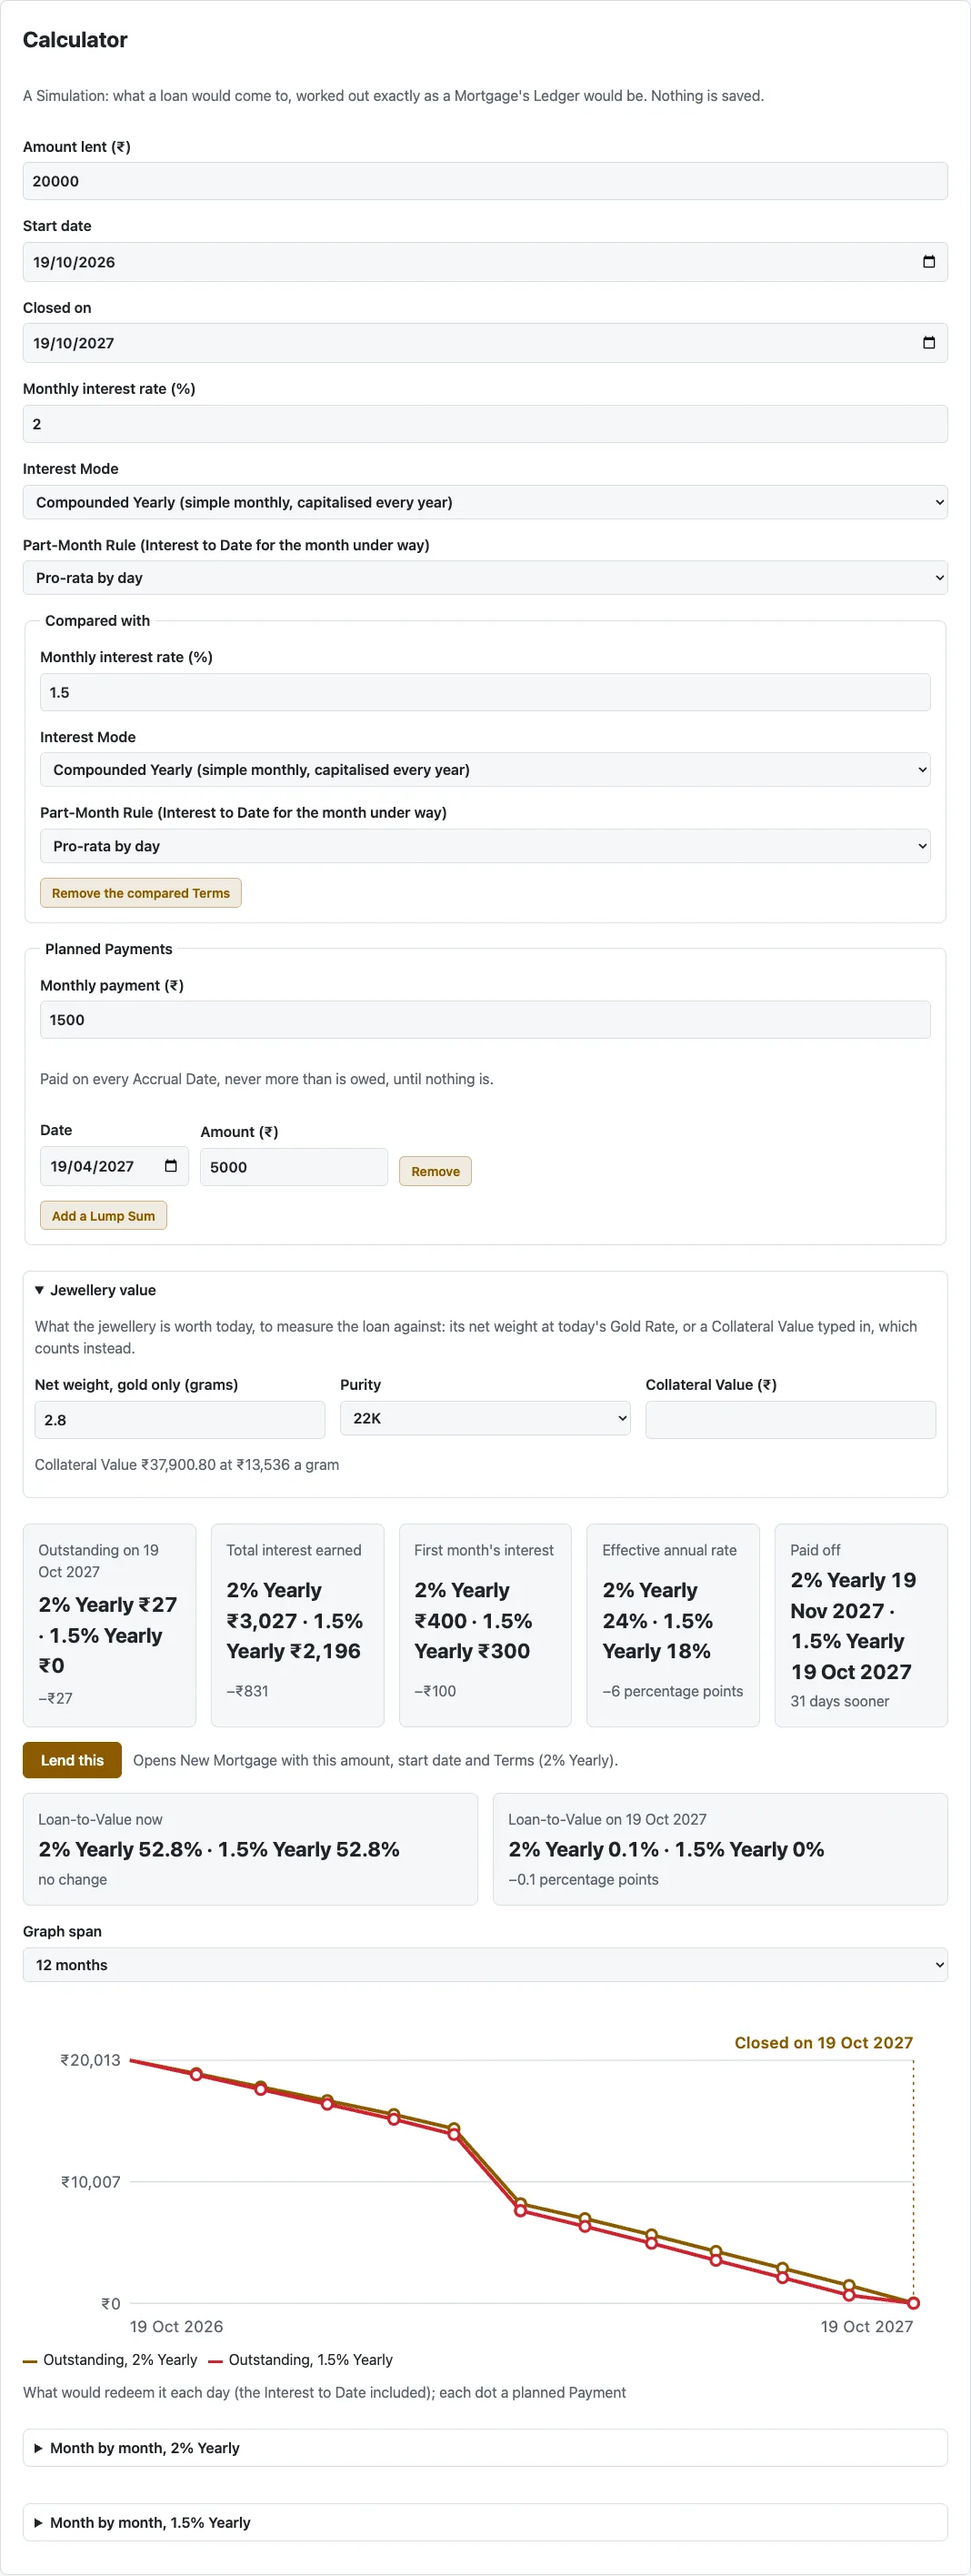
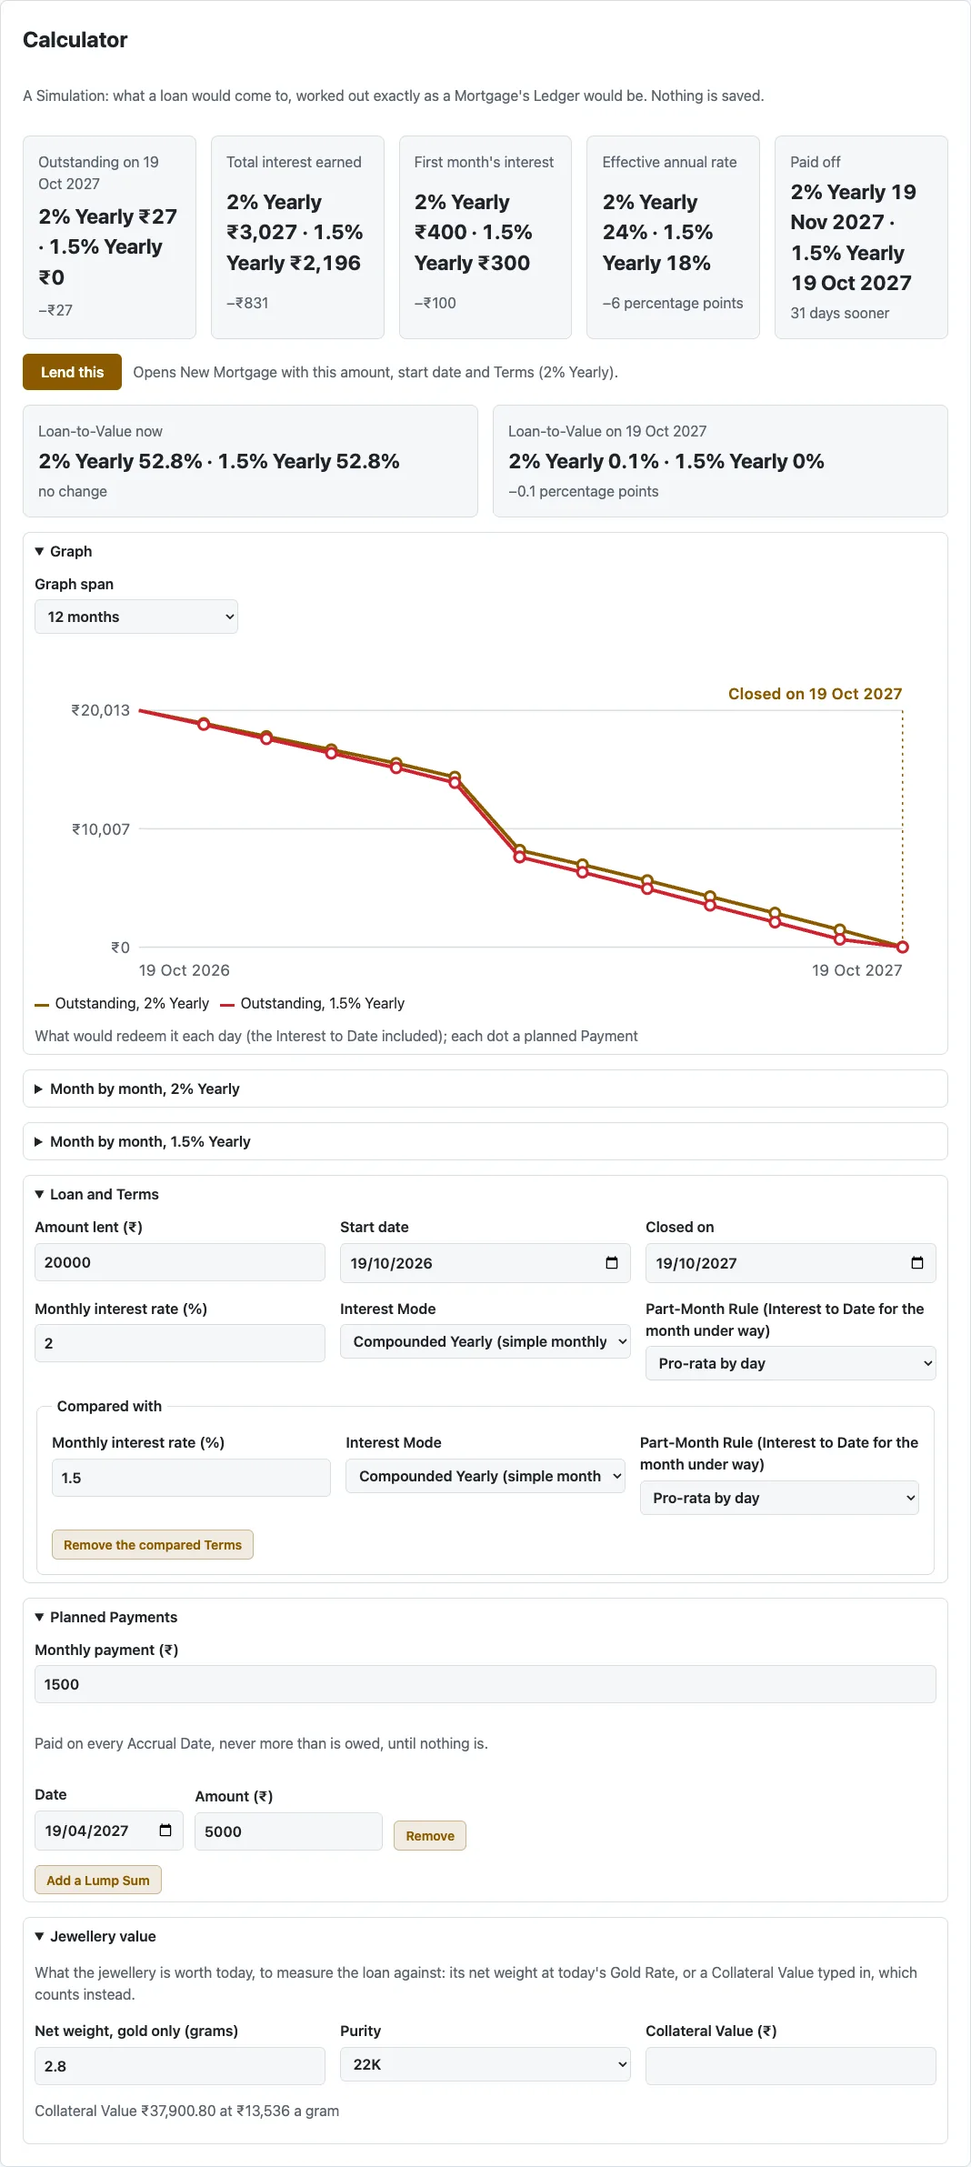
3.4.1: the Calculator's new layout, in the docs and the release
Changelog entry for 3.4.1, versions bumped. Every screenshot retaken: the
Calculator now shows what it comes to above its inputs, so its story markers
moved, and the top bar reads v3.4.1. shots.mjs finds Planned Payments as a
folding section, not a fieldset; the update banner invents 3.4.2 over 3.4.1.
The Calculator's alt texts describe the new order. No database changes.

diff --git a/docs/story.html b/docs/story.html
@@ -329,7 +329,7 @@ footer { margin-top: 3rem; font-size: 0.82rem; color: var(--muted); display: gri
     <p>In November 2025 Meera pledged a gold chain with a pendant: 21.5 grams gross, 20 grams of 22K gold, against ₹80,000. One packet of jewellery is one Mortgage. Today she asks for <span data-fig="calculator.ask">₹20,000 for a year, from 19 Oct 2026 to 19 Oct 2027</span>, against a gold nose pin. Before lending, the Lender sizes it up on the <b>Calculator</b>: a Simulation, worked out exactly as a Mortgage's Ledger would be, with no Customer and nothing saved.</p>
   </div>
   <figure class="scene" data-shot="calculator">
-    <div class="frame"><div class="canvas"><img src="shots/calculator.webp" width="1068" height="2832" alt="The Calculator: ₹20,000 for a year at 2% a month compared with 1.5%, planned Payments, the nose pin's value, what each comes to, Lend this, and a chart of the Outstanding." loading="lazy"></div></div>
+    <div class="frame"><div class="canvas"><img src="shots/calculator.webp" width="1068" height="2383" alt="The Calculator: what ₹20,000 for a year comes to at 2% a month and at 1.5%, Lend this, and a graph of the Outstanding, above the inputs: the loan and its Terms, planned Payments and the nose pin's value." loading="lazy"></div></div>
     <div class="beats-wrap">
       <ol class="beats">
         <li data-spot="amount"><button class="beat"><span><b>The loan asked for:</b> an amount, a start date, and the day to close it on. Every figure is as of that day, as if it were Redeemed then.</span></button></li>
@@ -634,7 +634,7 @@ footer { margin-top: 3rem; font-size: 0.82rem; color: var(--muted); display: gri
   </div>
   <div class="duo">
     <figure class="still"><img src="shots/start-screen.webp" width="860" height="226" alt="The installed app with nothing running: The app isn't running on this laptop, and a Start Mortgage Management button." loading="lazy"><figcaption>Opened from its icon with nothing running, the installed app offers <b>Start Mortgage Management</b>. Windows asks once whether to open it; the app loads as soon as it answers.</figcaption></figure>
-    <figure class="still"><img src="shots/update-banner.webp" width="1068" height="204" alt="Version 3.4.0 is available, with what's new, Install now and Later." loading="lazy"><figcaption>A newer release, with what's new from its changelog (an invented one here). <b>Install now</b> updates the app and reloads it on the new version; <b>Later</b> hides it until the next release.</figcaption></figure>
+    <figure class="still"><img src="shots/update-banner.webp" width="1068" height="204" alt="Version 3.4.2 is available, with what's new, Install now and Later." loading="lazy"><figcaption>A newer release, with what's new from its changelog (an invented one here). <b>Install now</b> updates the app and reloads it on the new version; <b>Later</b> hides it until the next release.</figcaption></figure>
   </div>
   <div class="duo">
     <figure class="still"><img src="shots/mortgage-history.webp" width="1020" height="241" alt="History of Meera's chain: the description edited, and each Payment recorded." loading="lazy"><figcaption>The chain's History: its description corrected ("Gold chain with pendant" → "…with Lakshmi pendant") and each Payment recorded.</figcaption></figure>
@@ -665,7 +665,7 @@ footer { margin-top: 3rem; font-size: 0.82rem; color: var(--muted); display: gri
 </main>
 
 <script>
-const SPOTS = {"dashboard":{"w":1280,"h":860,"b":{"owed":[0.1023,0.2274,0.7953,0.0883],"ltv":[0.5063,0.7082,0.3914,0.1437],"follow":[0.1023,0.9176,0.3914,0.1437],"theme":[0.955,0.014,0.0262,0.0391],"dot":[0.7776,0.0172,0.0063,0.0093]}},"dashboard-chart":{"w":1020,"h":445,"b":{}},"dashboard-ahead":{"w":1020,"h":335,"b":{}},"dashboard-closed":{"w":1020,"h":168,"b":{}},"settings-terms":{"w":1068,"h":461,"b":{"rate":[0.0234,0.37,0.9532,0.0912]}},"settings-gold":{"w":1068,"h":554,"b":{"g22":[0.1864,0.4424,0.1837,0.0758],"updated":[0.7032,0.4271,0.2734,0.1065]}},"settings-calls":{"w":1068,"h":293,"b":{}},"settings-cash":{"w":1068,"h":317,"b":{"limit":[0.0234,0.6125,0.9532,0.1323]}},"settings-messages":{"w":1068,"h":1116,"b":{"template":[0.0234,0.16,0.4691,0.2312],"preview":[0.5075,0.1335,0.4691,0.1998],"approve":[0.5075,0.8633,0.4691,0.0215]}},"settings-backups":{"w":1068,"h":461,"b":{"last":[0.0234,0.3399,0.9532,0.052]}},"customers":{"w":1068,"h":757,"b":{"filter":[0.0234,0.107,0.9532,0.0555],"active":[0.0234,0.1836,0.9532,0.0317],"sort":[0.1087,0.247,0.0455,0.0269],"new":[0.8341,0.033,0.1425,0.0528]}},"customer-new":{"w":828,"h":1176,"b":{"phone":[0.3249,0.2802,0.6449,0.0357],"warning":[0.3249,0.3206,0.6449,0.0204],"referrer":[0.0326,0.8606,0.9348,0.0689]}},"customer":{"w":828,"h":1103,"b":{"photo":[0.0302,0.1422,0.2657,0.1995],"shared":[0.0302,0.1059,0.9396,0.0218],"referrer":[0.3249,0.2002,0.1516,0.0218],"ids":[0.0302,0.3489,0.9396,0.0255],"mortgages":[0.0302,0.5118,0.1171,0.0255],"history":[0.0302,0.7598,0.9396,0.0255]}},"referrer":{"w":828,"h":242,"b":{}},"calculator":{"w":1068,"h":2832,"b":{"amount":[0.0234,0.0631,0.9532,0.0148],"compared":[0.0253,0.2368,0.9494,0.1216],"plan":[0.0253,0.3641,0.9494,0.1196],"value":[0.0234,0.4936,0.9532,0.0881],"tiles":[0.0234,0.5916,0.9532,0.0793],"lend":[0.0234,0.6765,0.1024,0.0141],"chart":[0.0234,0.7751,0.9532,0.1581]}},"calculator-months":{"w":1018,"h":1157,"b":{}},"mortgage-new":{"w":1068,"h":1362,"b":{"active":[0.0234,0.1094,0.9532,0.0206],"lent":[0.0234,0.3669,0.4691,0.0279],"name":[0.0234,0.5746,0.9532,0.0308],"terms":[0.0253,0.6389,0.9494,0.2172],"photos":[0.0253,0.8678,0.9494,0.0727]}},"mortgage-new-confirm":{"w":520,"h":801,"b":{}},"cash-warning":{"w":520,"h":205,"b":{"anyway":[0.5431,0.6777,0.4088,0.1953]}},"mortgage":{"w":1280,"h":860,"b":{"tiles":[0.1023,0.1949,0.7953,0.1112],"pay":[0.7836,0.1376,0.1141,0.0356],"edit":[0.7333,0.1364,0.0409,0.0379]}},"mortgage-collateral":{"w":1020,"h":161,"b":{}},"mortgage-ledger":{"w":1020,"h":734,"b":{}},"mortgage-history":{"w":1020,"h":241,"b":{}},"mortgage-projection":{"w":1020,"h":837,"b":{"whatif":[0.001,0.088,0.2196,0.0502]}},"mortgage-terms":{"w":1020,"h":233,"b":{"coming":[0.0888,0.6005,0.0781,0.1397]}},"mortgage-photos":{"w":1020,"h":319,"b":{}},"edit-preview":{"w":1068,"h":2426,"b":{"principal":[0.5075,0.1097,0.4691,0.0173],"owed":[0.0234,0.2725,0.471,0.0503],"ledger":[0.0234,0.5785,0.3106,0.0152]}},"terms-preview":{"w":1068,"h":1493,"b":{"from":[0.0234,0.1197,0.9532,0.0255],"owed":[0.0234,0.4097,0.471,0.0817]}},"payment-new":{"w":1068,"h":832,"b":{"amount":[0.3461,0.1866,0.3077,0.0505],"modes":[0.0412,0.3496,0.1608,0.0289],"split":[0.0412,0.3976,0.9176,0.1435],"owed":[0.4995,0.3976,0.3226,0.0443],"full":[0.3461,0.2438,0.2473,0.0385],"preview":[0.0234,0.7823,0.9532,0.0338]}},"payment-refused":{"w":1018,"h":572,"b":{"refusal":[0,0.8182,1,0.042],"save":[0,0.9161,0.2623,0.0699]}},"payment":{"w":1068,"h":940,"b":{"alloc":[0.0225,0.2351,0.9551,0.1867],"receipt":[0.0225,0.4345,0.9551,0.5485],"void":[0.9126,0.0284,0.064,0.0347]}},"receipt":{"w":1068,"h":545,"b":{}},"payment-void":{"w":900,"h":774,"b":{}},"payments":{"w":1068,"h":1389,"b":{"voided":[0.85,0.3063,0.0524,0.0155]}},"call-list":{"w":1068,"h":627,"b":{"customer":[0.0234,0.6452,0.2397,0.2366],"count":[0.0346,0.7129,0.0861,0.0287],"reach":[0.0346,0.7566,0.2168,0.052],"why":[0.5127,0.7841,0.1446,0.0356],"legend":[0.6176,0.4927,0.359,0.0407],"called":[0.8065,0.7355,0.1588,0.1327],"mark":[0.8065,0.6596,0.1072,0.0488],"sheet":[0.0234,0.2377,0.1189,0.052],"chat":[0.1659,0.7566,0.0309,0.052]}},"mortgages-customer":{"w":1068,"h":454,"b":{"note":[0.0234,0.3017,0.9532,0.0718]}},"call-sheet-import":{"w":960,"h":466,"b":{}},"closures":{"w":1068,"h":840,"b":{"dormant":[0.7522,0.3219,0.0856,0.0364],"choose":[0.0384,0.6839,0.0122,0.0155]}},"redeem":{"w":1018,"h":1233,"b":{"date":[0.0167,0.0772,0.9666,0.0357],"amount":[0.0167,0.2139,0.1729,0.0389]}},"waive":{"w":1018,"h":1479,"b":{}},"closures-waive":{"w":1068,"h":1122,"b":{}},"redeemed":{"w":1018,"h":123,"b":{}},"forfeited":{"w":1018,"h":285,"b":{}},"waived":{"w":1018,"h":285,"b":{}},"start-screen":{"w":860,"h":226,"b":{"start":[0.0291,0.7124,0.3007,0.177]}},"update-banner":{"w":1068,"h":204,"b":{}},"notices":{"w":1068,"h":374,"b":{"tabs":[0.0234,0.4631,0.9532,0.0642],"row":[0.0234,0.6689,0.9532,0.1328]}},"notice":{"w":640,"h":432,"b":{"approve":[0.799,0.8473,0.1619,0.0926]}},"notices-send":{"w":1068,"h":374,"b":{"send":[0.8281,0.6943,0.074,0.0819]}},"payment-redeem":{"w":520,"h":359,"b":{}},"receipt-redeemed":{"w":1068,"h":463,"b":{}}}
+const SPOTS = {"dashboard":{"w":1280,"h":860,"b":{"owed":[0.1023,0.2274,0.7953,0.0883],"ltv":[0.5063,0.7082,0.3914,0.1437],"follow":[0.1023,0.9176,0.3914,0.1437],"theme":[0.955,0.014,0.0262,0.0391],"dot":[0.7766,0.0172,0.0063,0.0093]}},"dashboard-chart":{"w":1020,"h":445,"b":{}},"dashboard-ahead":{"w":1020,"h":335,"b":{}},"dashboard-closed":{"w":1020,"h":168,"b":{}},"settings-terms":{"w":1068,"h":461,"b":{"rate":[0.0234,0.37,0.9532,0.0912]}},"settings-gold":{"w":1068,"h":554,"b":{"g22":[0.1864,0.4424,0.1837,0.0758],"updated":[0.7032,0.4271,0.2734,0.1065]}},"settings-calls":{"w":1068,"h":293,"b":{}},"settings-cash":{"w":1068,"h":317,"b":{"limit":[0.0234,0.6125,0.9532,0.1323]}},"settings-messages":{"w":1068,"h":1116,"b":{"template":[0.0234,0.16,0.4691,0.2312],"preview":[0.5075,0.1335,0.4691,0.1998],"approve":[0.5075,0.8633,0.4691,0.0215]}},"settings-backups":{"w":1068,"h":461,"b":{"last":[0.0234,0.3399,0.9532,0.052]}},"customers":{"w":1068,"h":757,"b":{"filter":[0.0234,0.107,0.9532,0.0555],"active":[0.0234,0.1836,0.9532,0.0317],"sort":[0.1087,0.247,0.0455,0.0269],"new":[0.8341,0.033,0.1425,0.0528]}},"customer-new":{"w":828,"h":1176,"b":{"phone":[0.3249,0.2802,0.6449,0.0357],"warning":[0.3249,0.3206,0.6449,0.0204],"referrer":[0.0326,0.8606,0.9348,0.0689]}},"customer":{"w":828,"h":1103,"b":{"photo":[0.0302,0.1422,0.2657,0.1995],"shared":[0.0302,0.1059,0.9396,0.0218],"referrer":[0.3249,0.2002,0.1516,0.0218],"ids":[0.0302,0.3489,0.9396,0.0255],"mortgages":[0.0302,0.5118,0.1171,0.0255],"history":[0.0302,0.7598,0.9396,0.0255]}},"referrer":{"w":828,"h":242,"b":{}},"calculator":{"w":1068,"h":2383,"b":{"amount":[0.0356,0.5737,0.2996,0.0176],"compared":[0.0375,0.644,0.9251,0.0827],"plan":[0.0234,0.7372,0.9532,0.1409],"value":[0.0234,0.8848,0.9532,0.1047],"tiles":[0.0234,0.0625,0.9532,0.0942],"lend":[0.0234,0.1634,0.1024,0.0168],"chart":[0.0356,0.2994,0.9288,0.1838]}},"calculator-months":{"w":1018,"h":1157,"b":{}},"mortgage-new":{"w":1068,"h":1362,"b":{"active":[0.0234,0.1094,0.9532,0.0206],"lent":[0.0234,0.3669,0.4691,0.0279],"name":[0.0234,0.5746,0.9532,0.0308],"terms":[0.0253,0.6389,0.9494,0.2172],"photos":[0.0253,0.8678,0.9494,0.0727]}},"mortgage-new-confirm":{"w":520,"h":801,"b":{}},"cash-warning":{"w":520,"h":205,"b":{"anyway":[0.5431,0.6777,0.4088,0.1953]}},"mortgage":{"w":1280,"h":860,"b":{"tiles":[0.1023,0.1949,0.7953,0.1112],"pay":[0.7836,0.1376,0.1141,0.0356],"edit":[0.7333,0.1364,0.0409,0.0379]}},"mortgage-collateral":{"w":1020,"h":161,"b":{}},"mortgage-ledger":{"w":1020,"h":734,"b":{}},"mortgage-history":{"w":1020,"h":241,"b":{}},"mortgage-projection":{"w":1020,"h":837,"b":{"whatif":[0.001,0.088,0.2196,0.0502]}},"mortgage-terms":{"w":1020,"h":233,"b":{"coming":[0.0888,0.6005,0.0781,0.1397]}},"mortgage-photos":{"w":1020,"h":319,"b":{}},"edit-preview":{"w":1068,"h":2426,"b":{"principal":[0.5075,0.1097,0.4691,0.0173],"owed":[0.0234,0.2725,0.471,0.0503],"ledger":[0.0234,0.5785,0.3106,0.0152]}},"terms-preview":{"w":1068,"h":1493,"b":{"from":[0.0234,0.1197,0.9532,0.0255],"owed":[0.0234,0.4097,0.471,0.0817]}},"payment-new":{"w":1068,"h":832,"b":{"amount":[0.3461,0.1866,0.3077,0.0505],"modes":[0.0412,0.3496,0.1608,0.0289],"split":[0.0412,0.3976,0.9176,0.1435],"owed":[0.4995,0.3976,0.3226,0.0443],"full":[0.3461,0.2438,0.2473,0.0385],"preview":[0.0234,0.7823,0.9532,0.0338]}},"payment-refused":{"w":1018,"h":572,"b":{"refusal":[0,0.8182,1,0.042],"save":[0,0.9161,0.2623,0.0699]}},"payment":{"w":1068,"h":940,"b":{"alloc":[0.0225,0.2351,0.9551,0.1867],"receipt":[0.0225,0.4345,0.9551,0.5485],"void":[0.9126,0.0284,0.064,0.0347]}},"receipt":{"w":1068,"h":545,"b":{}},"payment-void":{"w":900,"h":774,"b":{}},"payments":{"w":1068,"h":1389,"b":{"voided":[0.85,0.3063,0.0524,0.0155]}},"call-list":{"w":1068,"h":627,"b":{"customer":[0.0234,0.6452,0.2397,0.2366],"count":[0.0346,0.7129,0.0861,0.0287],"reach":[0.0346,0.7566,0.2168,0.052],"why":[0.5127,0.7841,0.1446,0.0356],"legend":[0.6176,0.4927,0.359,0.0407],"called":[0.8065,0.7355,0.1588,0.1327],"mark":[0.8065,0.6596,0.1072,0.0488],"sheet":[0.0234,0.2377,0.1189,0.052],"chat":[0.1659,0.7566,0.0309,0.052]}},"mortgages-customer":{"w":1068,"h":454,"b":{"note":[0.0234,0.3017,0.9532,0.0718]}},"call-sheet-import":{"w":960,"h":466,"b":{}},"closures":{"w":1068,"h":840,"b":{"dormant":[0.7522,0.3219,0.0856,0.0364],"choose":[0.0384,0.6839,0.0122,0.0155]}},"redeem":{"w":1018,"h":1233,"b":{"date":[0.0167,0.0772,0.9666,0.0357],"amount":[0.0167,0.2139,0.1729,0.0389]}},"waive":{"w":1018,"h":1479,"b":{}},"closures-waive":{"w":1068,"h":1122,"b":{}},"redeemed":{"w":1018,"h":123,"b":{}},"forfeited":{"w":1018,"h":285,"b":{}},"waived":{"w":1018,"h":285,"b":{}},"start-screen":{"w":860,"h":226,"b":{"start":[0.0291,0.7124,0.3007,0.177]}},"update-banner":{"w":1068,"h":204,"b":{}},"notices":{"w":1068,"h":374,"b":{"tabs":[0.0234,0.4631,0.9532,0.0642],"row":[0.0234,0.6689,0.9532,0.1328]}},"notice":{"w":640,"h":432,"b":{"approve":[0.799,0.8473,0.1619,0.0926]}},"notices-send":{"w":1068,"h":374,"b":{"send":[0.8281,0.6943,0.074,0.0819]}},"payment-redeem":{"w":520,"h":359,"b":{}},"receipt-redeemed":{"w":1068,"h":463,"b":{}}}
 
 // Scenes: numbered markers on each screenshot, stepped through by click or ← →.
 for (const scene of document.querySelectorAll('figure.scene')) {

diff --git a/docs/index.html b/docs/index.html
@@ -315,7 +315,7 @@ footer { margin-top: 1.5rem; font-size: 0.82rem; color: var(--muted); }
     </article>
 
     <article class="feature" style="--tone: var(--money-in)">
-      <img src="shots/calculator.webp" width="1068" height="2832" alt="The Calculator: a loan's amount, dates and Terms compared with a second rate, planned Payments and the jewellery's value, with what each comes to and a chart." loading="lazy">
+      <img src="shots/calculator.webp" width="1068" height="2383" alt="The Calculator: what a loan comes to under two rates, with a graph, above its inputs: the amount, dates and Terms, planned Payments and the jewellery's value." loading="lazy">
       <div class="feature-body">
         <h3>Calculator</h3>
         <p>Size up a loan before lending: a Simulation worked out exactly as its Mortgage's Ledger would be, with nothing saved.</p>

diff --git a/CHANGELOG.md b/CHANGELOG.md
@@ -5,7 +5,11 @@ Every release of Mortgage Management, newest first. The format follows
 [Semantic Versioning](https://semver.org/). Domain terms are as defined in
 [GLOSSARY.md](GLOSSARY.md).
 
-## [Unreleased]
+## [3.4.1] - 2026-11-06
+
+The Calculator shows what a loan comes to first, without scrolling. **No database
+changes:** updating keeps all data and Backups, and 3.4.0 still starts on the same
+database.
 
 ### Changed
 
